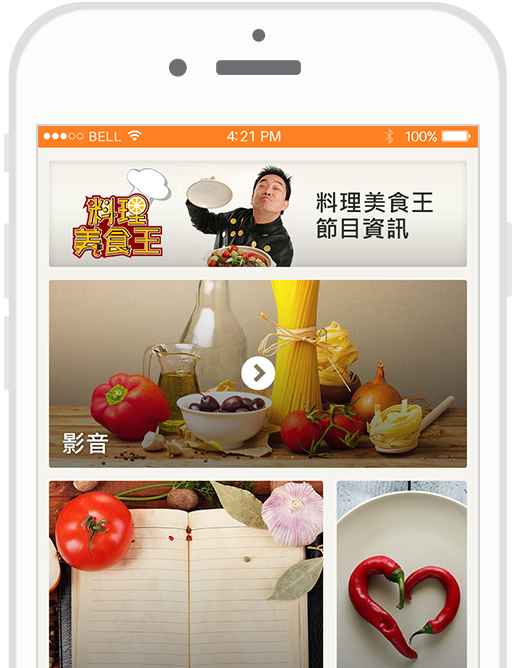
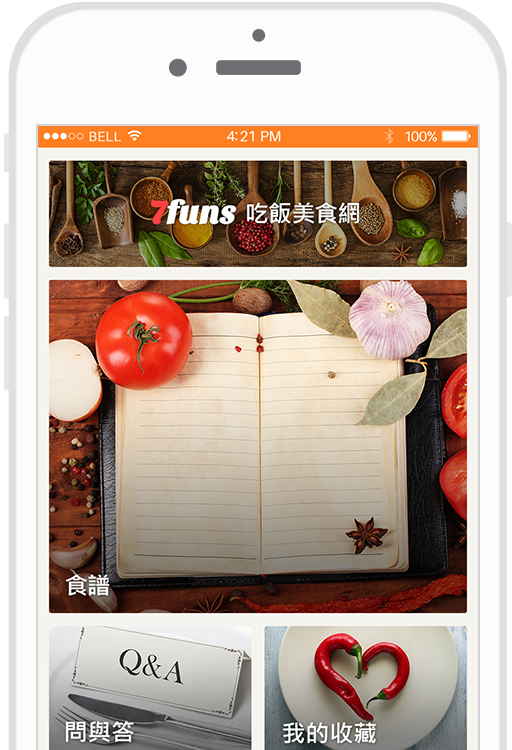
7Funs 網頁-修改app畫面跟白線問題
因為百分比的關係好像造成圖片不是完整的1px, 多了0.幾px就多了條白線＝＝＋

diff --git a/7funs/Web/7funs - 0310/css/7funs_layout.css b/7funs/Web/7funs - 0310/css/7funs_layout.css
@@ -606,7 +606,7 @@ p.go_top a{ width:60px; height:60px; display:block; background:url(../images/top
 
 /*index-app*/
 .CenterBox .FoodTool{ padding:55px 0 0 0;}
-.CenterBox .FoodTool .img_App{ float:left; width:27%; padding-left:1.5%;}
+.CenterBox .FoodTool .img_App{ float:left; width:25.2%; padding-left:1.5%;}
 .CenterBox .FoodTool .App_info{ float:right; width:65%; padding:75px 0 20px 0;}
 .CenterBox .FoodTool .App_info p { color:#171717; line-height:28px; padding-bottom:20px;}
 .CenterBox .FoodTool .App_info p.title{ color:#3c4549; font-size:34px; font-weight: bold;}
